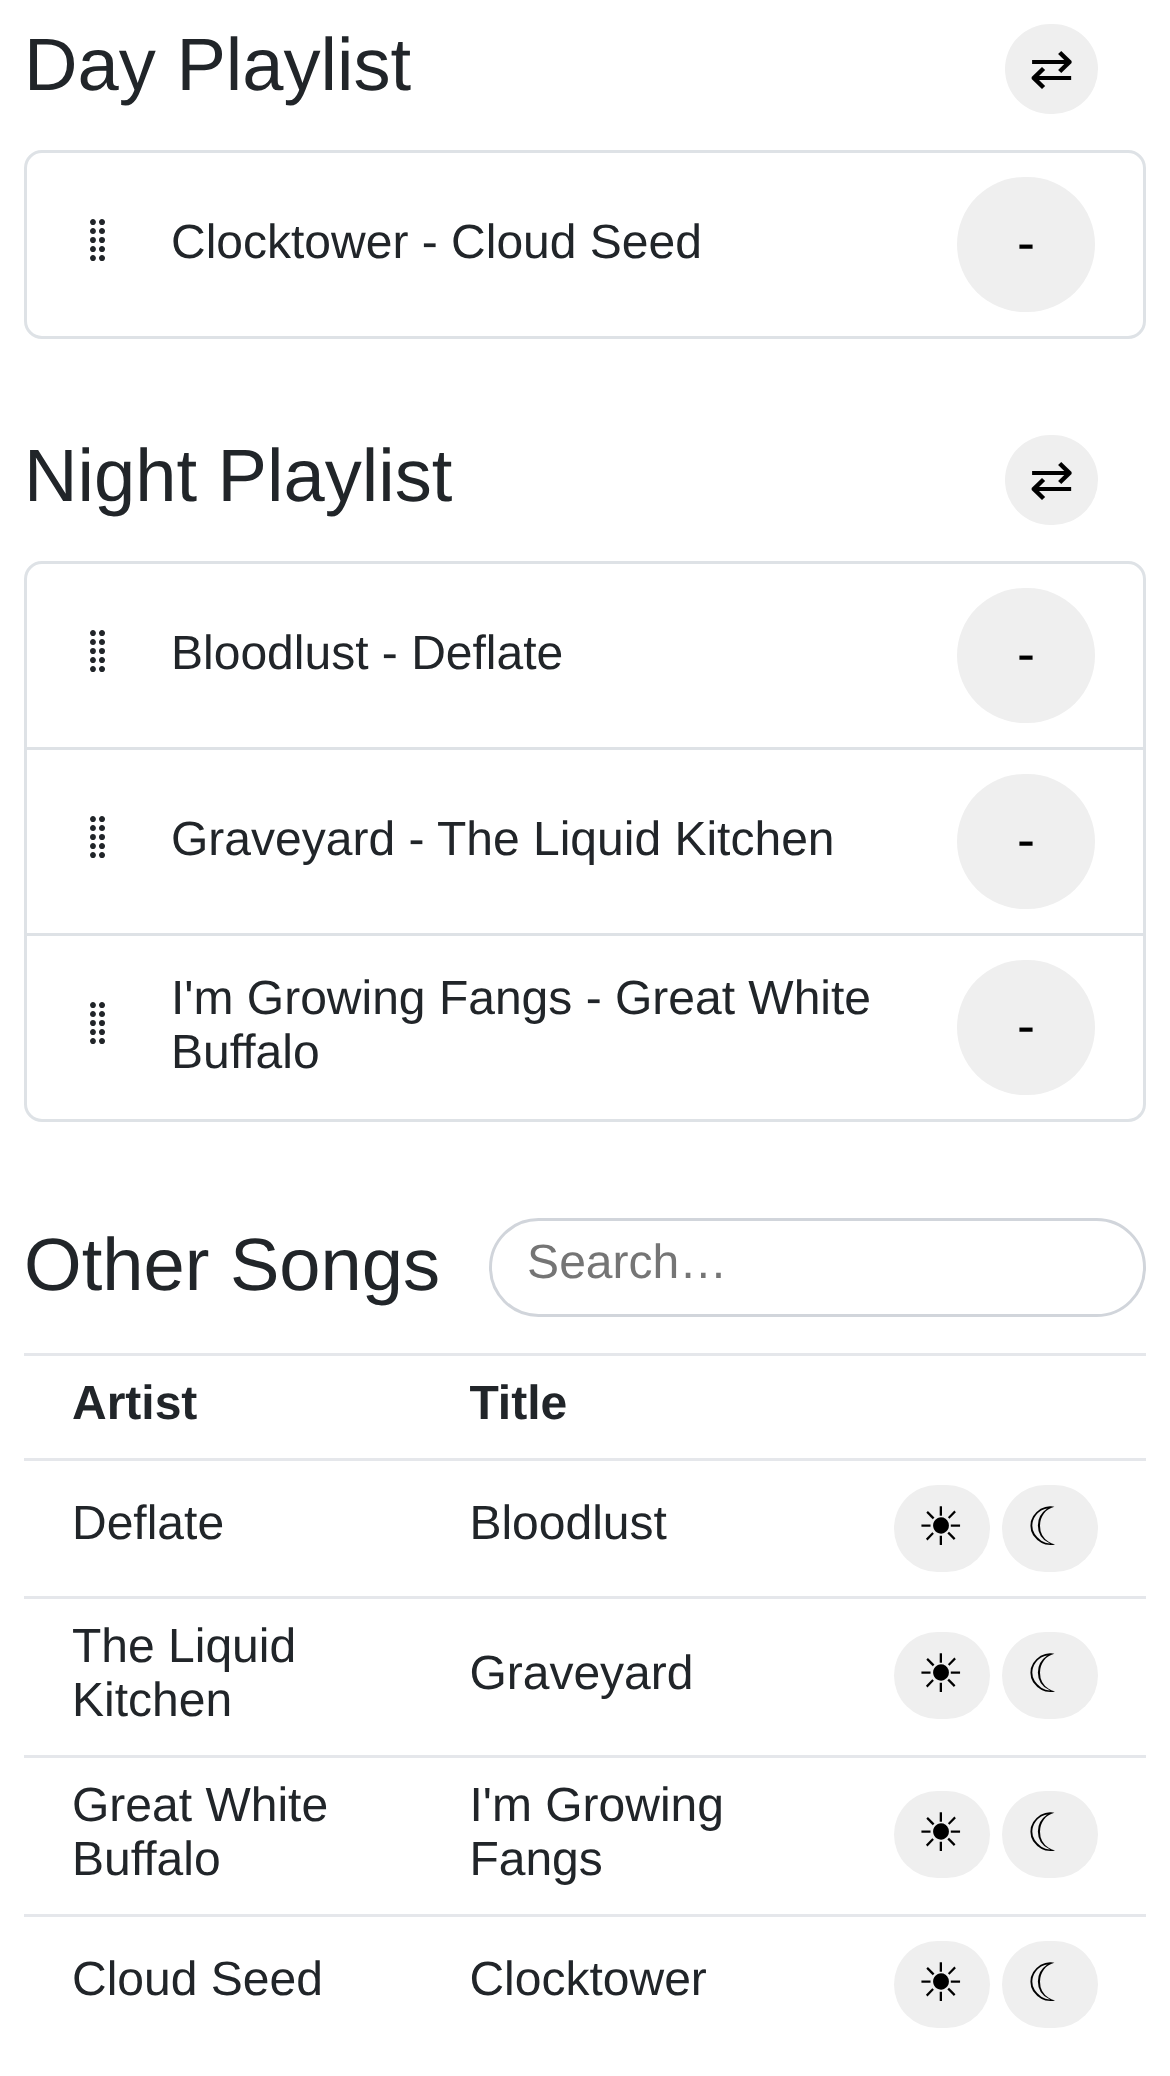
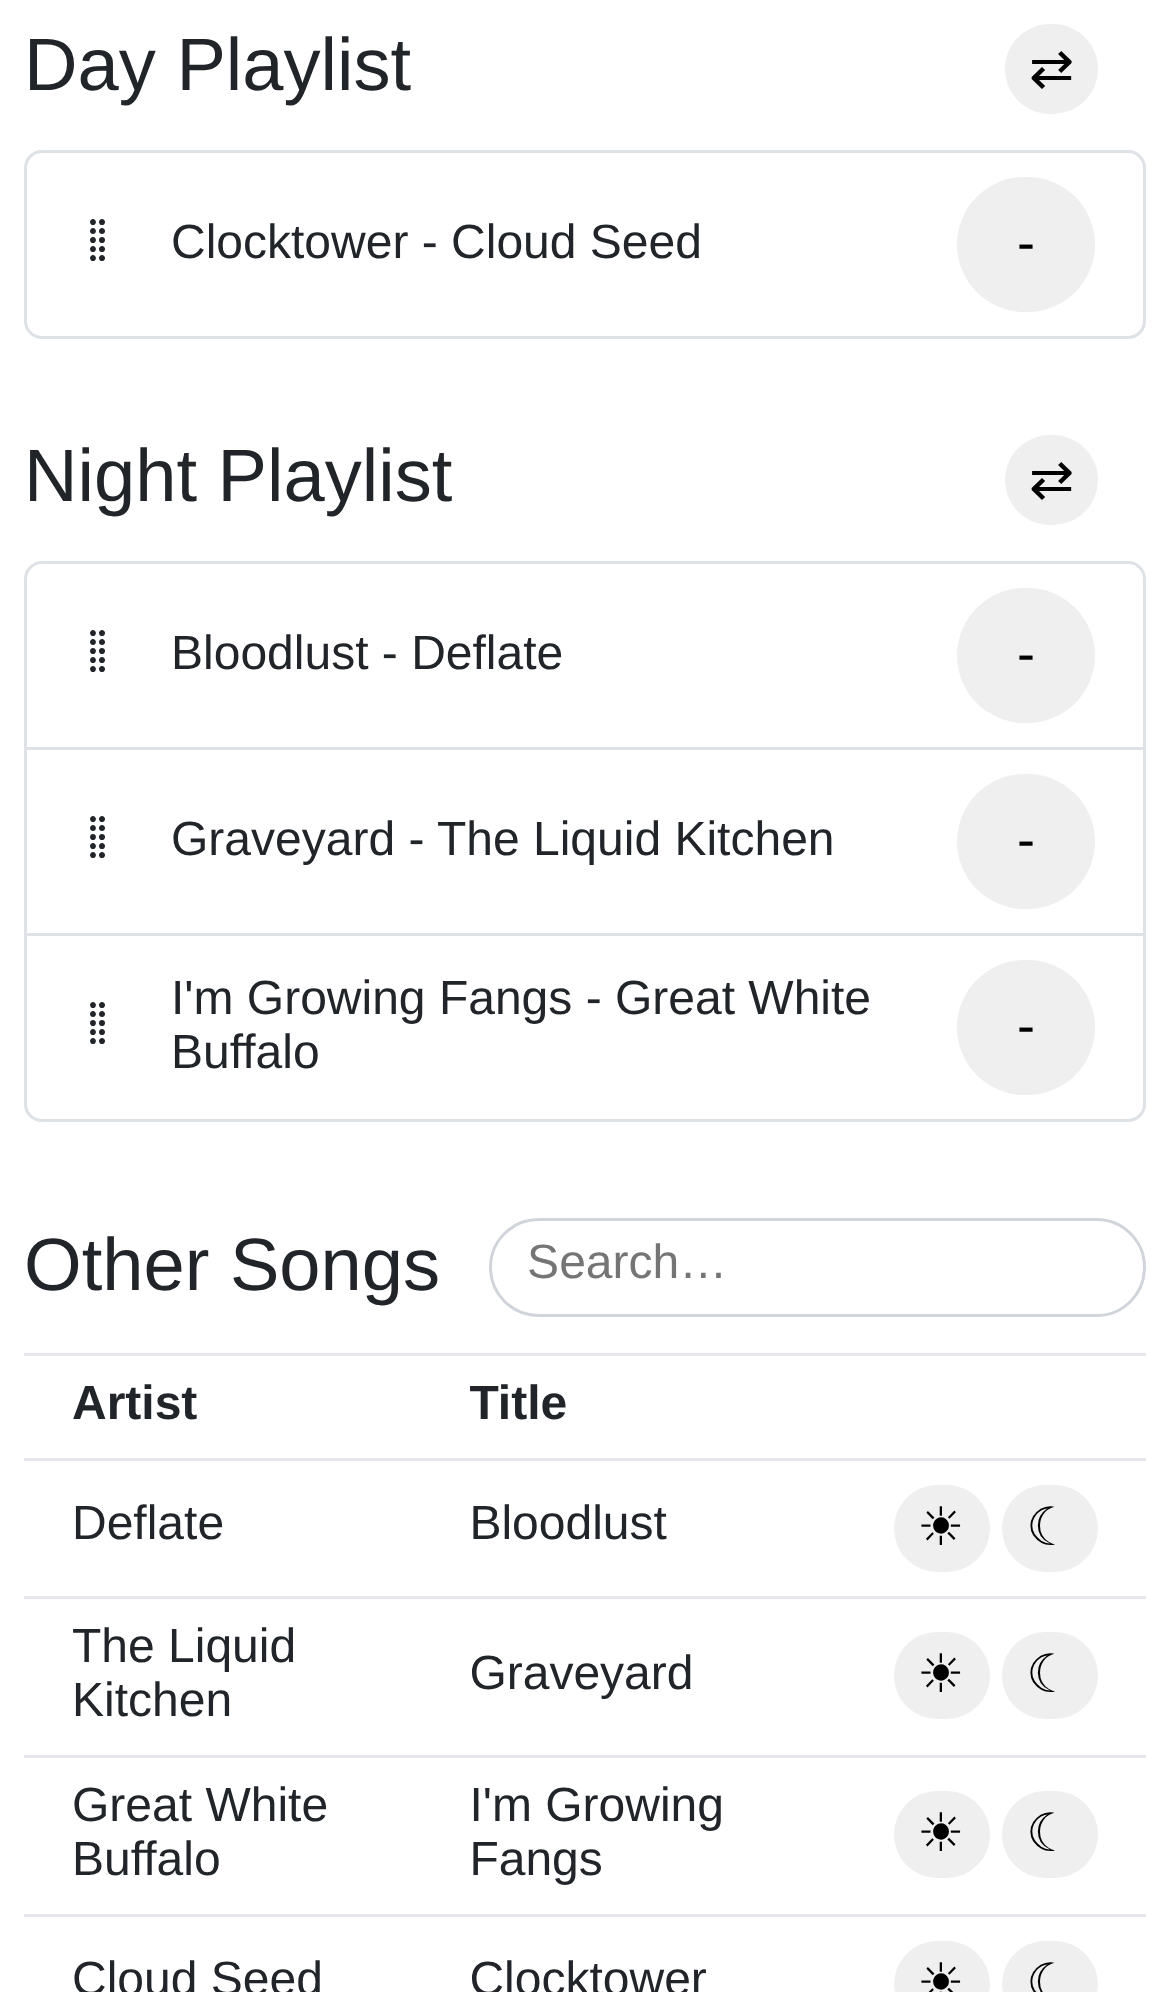
Remove full-page option from screenshot calls to adhere to device sizes

diff --git a/App.Tests/PlayerPageTests.cs b/App.Tests/PlayerPageTests.cs
@@ -14,7 +14,7 @@ public class PlayerPageTests : PageTest
         });
         await Expect(Page.Locator(".full-page-container")).ToBeVisibleAsync();
 
-        var screenshot = await Page.ScreenshotAsync(new PageScreenshotOptions { FullPage = true });
+        var screenshot = await Page.ScreenshotAsync();
         await Verify(screenshot, "png");
     }
 }

diff --git a/App.Tests/RemotePageTests.cs b/App.Tests/RemotePageTests.cs
@@ -24,7 +24,7 @@ public class RemotePageTests : PageTest
         });
         await Expect(Page.Locator("#remote-container")).ToBeVisibleAsync();
 
-        var screenshot = await Page.ScreenshotAsync(new PageScreenshotOptions { FullPage = true });
+        var screenshot = await Page.ScreenshotAsync();
         await Verify(screenshot, "png");
     }
 }

diff --git a/App.Tests/PlaylistsPageTests.cs b/App.Tests/PlaylistsPageTests.cs
@@ -24,7 +24,7 @@ public class PlaylistsPageTests : PageTest
         });
         await Expect(Page.Locator("#day-playlist")).ToBeVisibleAsync();
 
-        var screenshot = await Page.ScreenshotAsync(new PageScreenshotOptions { FullPage = true });
+        var screenshot = await Page.ScreenshotAsync();
         await Verify(screenshot, "png");
     }
 }
